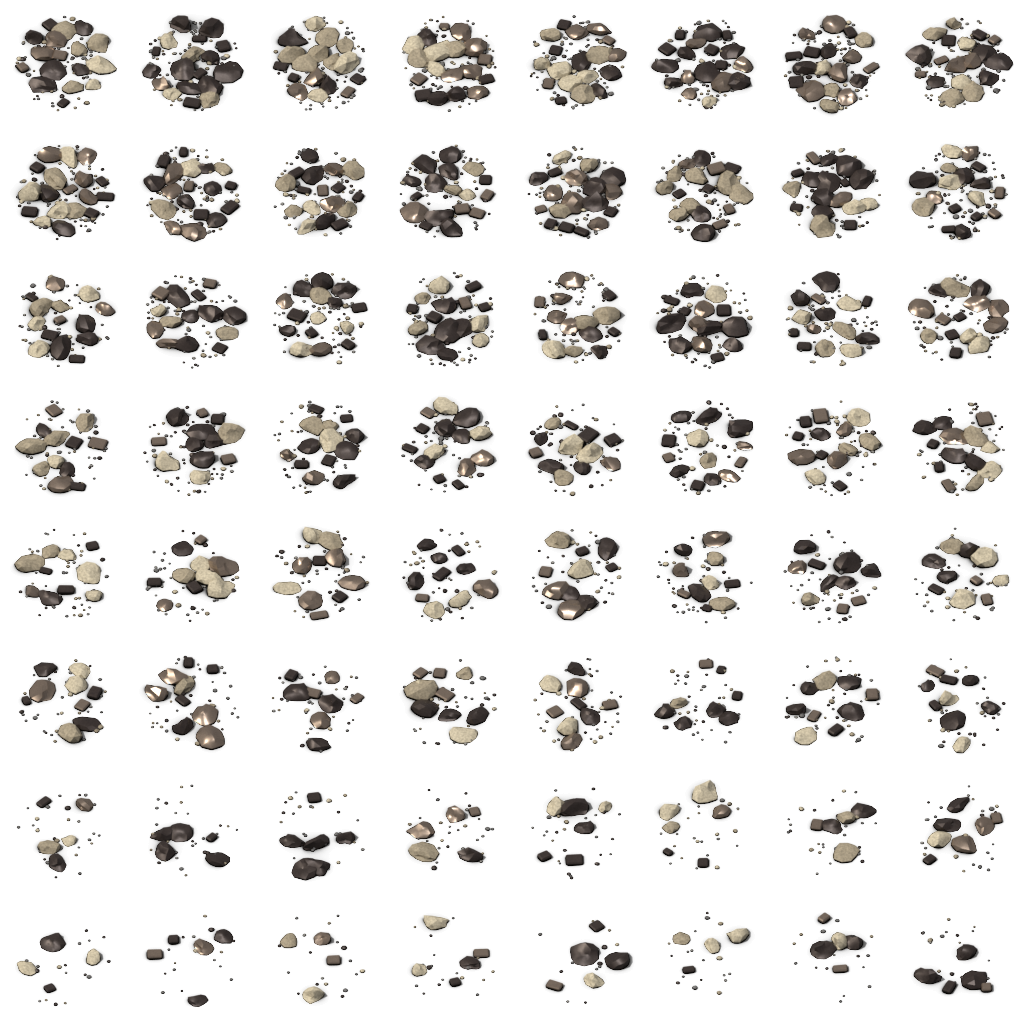
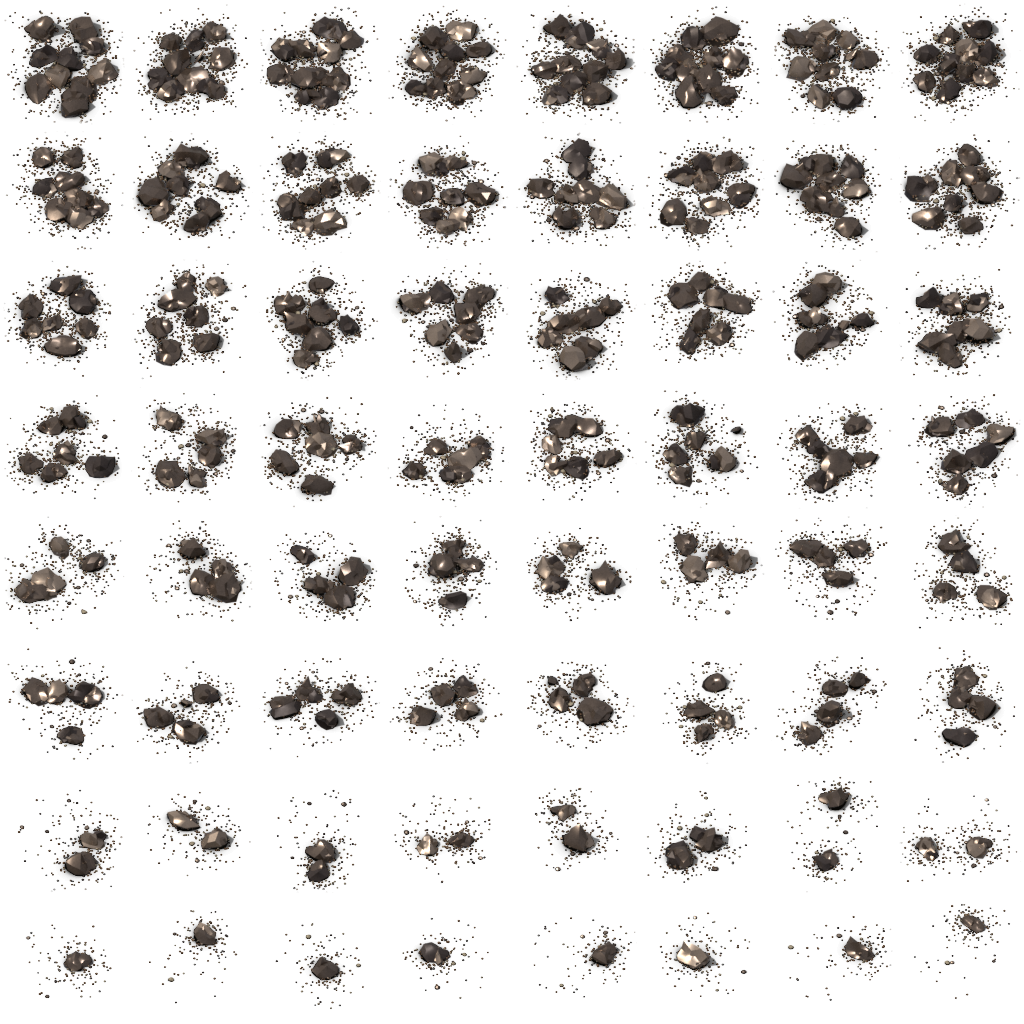
Ilménite : forme refaite (direction J7), retour du DC du 30/10
DC (30/10, 9 h) : « je n'aime pas du tout la forme de ces minerais : [...] Minerai
d'ilménite [...] Il faut les refaire. » Ancienne forme I2S : galets plats et lisses,
plaquettes carrées à plat, damier crème / brun, pièces semées une à une, tapis de
grains en couronne. J7 : morceaux bosselés en tas serrés (tête et bosses soudées),
brun-noir à reflets bronze (teinte I2 sombre gardée), une tablette d'accent dans un
tas sur deux, poussière brun-rouille sous les morceaux. Même dossier, même nom :
aucune migration ; couche d'effet de I2S inchangée.

Kit : gisement.py gagne des clés facultatives (amas, fins_autour, fin_taille,
ROCHE_BOSSE) sans tirage en plus pour les directions qui ne les ont pas ;
feuille.py masque l'effet là où le minerai fondu en bordure est presque transparent.
64 échantillons ; check_gisement 7 OK, mutants 10/10. Sans verdict du DC.

diff --git a/tools/render/pieces/ressources/directions.py b/tools/render/pieces/ressources/directions.py
@@ -581,3 +581,132 @@ GRAINE = {"A": 5101, "B": 5202, "C": 5303, "A2": 5101, "A3": 5101, "A4": 5101, "
 COLONNES = 8
 STADES = 8
 PAS = 3          # écart entre deux cellules, en tuiles (aucune ombre d'une cellule ne déborde sur sa voisine)
+
+# ------------------------------------------------------------------------------------------------
+# ILMÉNITE, REFONTE DE LA FORME (lot MINERAI-ILMENITE, 30/10). Retour du DC (30/10, 9 h) : « je n'aime pas du tout la
+# forme de ces minerais : Blende, Cassitérite, Minerai d'ilménite, Minerai de monazite. Il faut les refaire. »
+# Pourquoi I2S déplaît (comparée aux hr-*.png vanilla, zoom 2) : (1) des GALETS plats et lisses (aplat 0,6, lissé 28°),
+# sans relief ni ombre, et des plaquettes carrées posées à plat : on lit des dalles ou du gravier, pas un minerai ;
+# (2) un DAMIER de deux couleurs (croûte crème contre noyau brun) qui se lit « pierre + charbon mêlés » ; (3) des pièces
+# semées UNE PAR UNE à écart fixe dans un disque (pois réguliers), quand la vanilla les groupe en TAS qui se touchent ;
+# (4) un tapis de grains épars (points) au lieu du halo de poussière colorée qui tache le sol sous chaque minerai vanilla ;
+# (5) au zoom 1, sur le régolithe gris clair des cratères, la croûte crème disparaît et il reste des taches sombres.
+# Langage vanilla visé : morceaux anguleux à facettes vives et à relief (ombre portée), en tas de 2 à 4, une couleur
+# dominante (ilménite brun-noir à reflets bronze, la teinte « I2 sombre » choisie par le DC le 25/10), halo de poussière
+# brun-rouille. Trois formes (essais à bas échantillonnage) :
+#   J1 : AMAS de blocs anguleux (le langage du fer et du cuivre vanilla, en brun-noir bronze) ;
+#   J2 : ROSES d'ilménite (rosettes de tablettes hexagonales minces en éventail, forme réelle du minéral) ;
+#   J3 : amas de J1 d'où sortent 1 ou 2 TABLETTES (blocs + cristaux tabulaires).
+# ------------------------------------------------------------------------------------------------
+MAT.update({
+    # ilménite de la refonte : brun-noir à éclat submétallique, entre ilmenite_brun et ilmenite_bronze (une seule
+    # couleur dominante, les reflets font le reste)
+    "ilmenite_j": dict(color=(0.13, 0.095, 0.075), rough=0.30, met=0.60, grain=0.22, gscale=45.0, dirt=0.45),
+    # poussière d'altération brun-rouille (le halo coloré sous le gisement, comme la poussière rouge du fer vanilla)
+    "poussiere_ilm": dict(color=(0.22, 0.13, 0.075), rough=0.95, met=0.0, grain=0.3, gscale=30.0, dirt=0.2),
+})
+_J_FINS = (300, 260, 225, 190, 155, 120, 85, 50)
+_J_FIN_MATS = ("poussiere_ilm", "poussiere_ilm", "leucoxene_sombre", "ilmenite_brun", "poussiere_ilm", "regolithe")
+DIRECTIONS["J1"] = dict(
+    nom="amas de blocs anguleux d'ilménite brun-noir à reflets bronze",
+    touffes=(0, 0, 0, 0, 0, 0, 0, 0), lames=(0, 0),
+    lame_long=(0.0, 0.0), lame_larg=(0.0, 0.0), lame_ep=(0.0, 0.0), lame_incl=(0, 0), lame_mats=("ilmenite_j",),
+    roches=(15, 13, 11, 9, 7, 6, 4, 2), roche_taille=(0.13, 0.20),
+    roche_mats=("ilmenite_j", "ilmenite_j", "ilmenite_j", "ilmenite_brun", "ilmenite_bronze", "ilmenite_j"),
+    amas=dict(taille=(2, 4), rayon=0.13, ecart=0.34, incl=(0, 28), tete=1.25),
+    blocs=(0, 0, 0, 0, 0, 0, 0, 0), bloc_taille=(0.1, 0.1), bloc_haut=(0.1, 0.1), bloc_mats=("ilmenite_j",),
+    grains=(18, 16, 14, 12, 10, 8, 6, 4), grain_mats=("ilmenite_j", "ilmenite_bronze", "leucoxene_sombre"),
+    fins=_J_FINS, fin_mats=_J_FIN_MATS,
+    rayon=0.60,
+    effet="eclats",
+)
+DIRECTIONS["J2"] = dict(
+    nom="roses d'ilménite : rosettes de tablettes brun-noir à reflets bronze",
+    touffes=(6, 5, 5, 4, 3, 3, 2, 1), lames=(5, 8),
+    lame_long=(0.11, 0.17), lame_larg=(0.17, 0.25), lame_ep=(0.025, 0.040), lame_incl=(30, 65),
+    lame_mats=("ilmenite_j", "ilmenite_j", "ilmenite_bronze", "ilmenite_brun"),
+    roches=(3, 3, 3, 2, 2, 1, 1, 1), roche_taille=(0.10, 0.15), roche_mats=("ilmenite_brun", "ilmenite_j"),
+    blocs=(0, 0, 0, 0, 0, 0, 0, 0), bloc_taille=(0.1, 0.1), bloc_haut=(0.1, 0.1), bloc_mats=("ilmenite_j",),
+    grains=(18, 16, 14, 12, 10, 8, 6, 4), grain_mats=("ilmenite_j", "ilmenite_bronze", "leucoxene_sombre"),
+    fins=_J_FINS, fin_mats=_J_FIN_MATS,
+    rayon=0.60,
+    effet="eclats",
+)
+DIRECTIONS["J3"] = dict(DIRECTIONS["J1"], nom="amas de blocs d'ilménite hérissés de tablettes",
+                        roches=(12, 10, 9, 7, 6, 5, 3, 2),
+                        amas=dict(taille=(2, 3), rayon=0.12, ecart=0.36, incl=(0, 25), tete=1.2, lames=(1, 2)),
+                        lame_long=(0.12, 0.18), lame_larg=(0.15, 0.22), lame_ep=(0.028, 0.042), lame_incl=(15, 50),
+                        lame_mats=("ilmenite_j", "ilmenite_bronze", "ilmenite_j"))
+for _k in ("J1", "J2", "J3"):
+    CALIB[_k] = {"SKY_GLOSSY_FACTOR": 3.0}
+    ROCHE_COUPES[_k], ROCHE_LISSE[_k], ROCHE_APLAT[_k], ROCHE_CASSURE[_k] = 8, 20, 0.80, (0.30, 0.62)
+    EFFET[_k] = dict(EFFET["I2S"])
+    ECHELLE[_k] = 1.0
+    GRAINE[_k] = 6818
+GRAINE["J2"] = 6919
+ROCHE_APLAT["J2"] = 0.65
+ICONE["J1"] = dict(lames=(0, 0), roches=(4, 5), roche_taille=(0.20, 0.27), roche_coupes=8, roche_cassure=(0.30, 0.62),
+                   roche_aplat=0.85, roche_mats=("ilmenite_j", "ilmenite_j", "ilmenite_bronze", "ilmenite_brun"), blocs=0)
+ICONE["J2"] = dict(lames=(6, 8), echelle=1.7, roches=(2, 2), roche_taille=(0.14, 0.18), roche_coupes=8,
+                   roche_cassure=(0.30, 0.62), roche_aplat=0.7, roche_mats=("ilmenite_brun",),
+                   lame_mats=("ilmenite_j", "ilmenite_bronze", "ilmenite_j"), blocs=0)
+ICONE["J3"] = dict(lames=(2, 3), echelle=1.5, roches=(3, 4), roche_taille=(0.20, 0.26), roche_coupes=8,
+                   roche_cassure=(0.30, 0.62), roche_aplat=0.85, roche_mats=("ilmenite_j", "ilmenite_j", "ilmenite_bronze"),
+                   lame_mats=("ilmenite_j", "ilmenite_bronze"), blocs=0)
+
+# Ronde 2 (essais à 16 échantillons, planche fo-logs/2026-10-30_RETOUR-MATIN/MINERAIS/ilmenite/essais, zoom 3 contre le fer
+# vanilla) : J1 et J3 sortent en ÉCLATS PLATS (8 coupes profondes), trop petits (couverture 0,16 contre 0,32), et le tapis de
+# fins se lit en couronne de GRAVIER rond (grains de 2 à 3 px ombrés, semés dans tout le disque) au lieu de la poussière
+# de 1 px serrée SOUS les morceaux du fer vanilla ; J2 (rosettes) se lit en papier froissé : écartée. Ronde 2 : morceaux
+# bosselés plus gros (bosses ±12 %, 5 coupes moins profondes), poussière fine concentrée autour des morceaux
+# (gisement.cellule : fins_autour, fin_taille), reflets bronze plus francs.
+MAT["ilmenite_k"] = dict(color=(0.15, 0.11, 0.085), rough=0.26, met=0.62, grain=0.22, gscale=45.0, dirt=0.45)
+ROCHE_BOSSE = {}
+_K_ROCHE_MATS = ("ilmenite_k", "ilmenite_k", "ilmenite_k", "ilmenite_brun", "ilmenite_bronze", "ilmenite_k")
+DIRECTIONS["J4"] = dict(DIRECTIONS["J1"], nom="amas de morceaux bosselés d'ilménite brun-noir à reflets bronze",
+                        roches=(17, 15, 12, 10, 8, 7, 4, 2), roche_taille=(0.17, 0.25), roche_mats=_K_ROCHE_MATS,
+                        amas=dict(taille=(2, 4), rayon=0.16, ecart=0.38, incl=(0, 25), tete=1.2),
+                        grains=(10, 9, 8, 7, 6, 5, 4, 3), grain_mats=("ilmenite_k", "ilmenite_bronze", "leucoxene_sombre"),
+                        fins=(700, 600, 520, 440, 360, 280, 200, 120), fin_taille=(0.007, 0.012), fins_autour=(0.75, 1.3),
+                        fin_mats=("poussiere_ilm", "poussiere_ilm", "leucoxene_sombre", "ilmenite_brun", "poussiere_ilm",
+                                  "regolithe"))
+DIRECTIONS["J5"] = dict(DIRECTIONS["J4"], nom="amas de morceaux d'ilménite hérissés de tablettes",
+                        roches=(15, 13, 11, 9, 7, 6, 4, 2),
+                        amas=dict(taille=(2, 3), rayon=0.16, ecart=0.38, incl=(0, 25), tete=1.2, lames=(1, 2)),
+                        lame_long=(0.13, 0.19), lame_larg=(0.16, 0.22), lame_ep=(0.030, 0.045), lame_incl=(20, 50),
+                        lame_mats=("ilmenite_k", "ilmenite_bronze", "ilmenite_k"))
+DIRECTIONS["J6"] = dict(DIRECTIONS["J5"], nom="tas de tablettes épaisses d'ilménite sur morceaux",
+                        roches=(11, 10, 8, 7, 6, 4, 3, 2),
+                        amas=dict(taille=(1, 2), rayon=0.14, ecart=0.38, incl=(0, 20), tete=1.1, lames=(2, 3)),
+                        lame_long=(0.14, 0.20), lame_larg=(0.17, 0.24), lame_ep=(0.050, 0.070), lame_incl=(35, 70))
+for _k in ("J4", "J5", "J6"):
+    CALIB[_k] = {"SKY_GLOSSY_FACTOR": 5.0}
+    ROCHE_COUPES[_k], ROCHE_LISSE[_k], ROCHE_APLAT[_k], ROCHE_CASSURE[_k] = 5, 34, 0.90, (0.50, 0.82)
+    ROCHE_BOSSE[_k] = (0.86, 1.12)
+    EFFET[_k] = dict(EFFET["I2S"])
+    ECHELLE[_k] = 1.0
+    GRAINE[_k] = 6818
+ICONE["J4"] = dict(ICONE["J1"], roche_coupes=5, roche_cassure=(0.50, 0.82), roche_aplat=0.9,
+                   roche_mats=("ilmenite_k", "ilmenite_k", "ilmenite_bronze", "ilmenite_brun"))
+ICONE["J5"] = dict(ICONE["J3"], roche_coupes=5, roche_cassure=(0.50, 0.82), roche_aplat=0.9,
+                   roche_mats=("ilmenite_k", "ilmenite_k", "ilmenite_bronze"), lame_mats=("ilmenite_k", "ilmenite_bronze"))
+ICONE["J6"] = dict(ICONE["J5"], lames=(3, 4), roches=(2, 3))
+
+# Ronde 3 (J4 à J6 au zoom 3 contre le fer : relief et reflets bronze justes, ni le bleu du fer ni le noir mat du charbon)
+# : morceaux encore trop RONDS (galettes lisses ; les morceaux vanilla ont plusieurs bosses), poussière clairsemée,
+# couverture à 75 % de la vanilla. J7 = J4 à morceaux COMPOSÉS (une tête et 1 ou 2 bosses soudées : amas serré), une
+# tablette d'accent dans un tas sur deux (l'habitus tabulaire de l'ilménite, de J5), poussière plus dense et plus serrée,
+# comptes recalés au rapport vanilla / mesuré de J4.
+DIRECTIONS["J7"] = dict(DIRECTIONS["J4"], nom="morceaux bosselés d'ilménite brun-noir à reflets bronze, tablettes d'accent",
+                        roches=(24, 20, 17, 14, 11, 9, 6, 3),
+                        amas=dict(taille=(2, 3), rayon=0.11, ecart=0.28, incl=(0, 25), tete=1.15, lames=(0, 1)),
+                        lame_long=(0.12, 0.17), lame_larg=(0.14, 0.20), lame_ep=(0.035, 0.050), lame_incl=(25, 55),
+                        lame_mats=("ilmenite_k", "ilmenite_bronze", "ilmenite_k"),
+                        fins=(1000, 860, 740, 620, 500, 400, 280, 170), fin_taille=(0.010, 0.016), fins_autour=(0.85, 1.0),
+                        rayon=0.62)
+CALIB["J7"] = dict(CALIB["J4"])
+ROCHE_COUPES["J7"], ROCHE_LISSE["J7"], ROCHE_APLAT["J7"], ROCHE_CASSURE["J7"] = 6, 30, 0.90, (0.45, 0.80)
+ROCHE_BOSSE["J7"] = (0.84, 1.14)
+EFFET["J7"] = dict(EFFET["I2S"])
+ECHELLE["J7"], GRAINE["J7"] = 1.0, 6818
+ICONE["J7"] = dict(ICONE["J4"], lames=(1, 2), echelle=1.4, lame_mats=("ilmenite_k", "ilmenite_bronze"))

diff --git a/tools/render/pieces/ressources/gisement.py b/tools/render/pieces/ressources/gisement.py
@@ -60,8 +60,9 @@ def _transforme(verts, rx, rz, tx, ty, tz):
     return out
 
 
-def roche(rng, taille, aplat=0.55, n_coupes=3, cassure=(0.55, 0.85)):
-    """Roche facettée : icosphère (2 subdivisions) bosselée, aplatie, fond à plat. Renvoie (sommets, faces)."""
+def roche(rng, taille, aplat=0.55, n_coupes=3, cassure=(0.55, 0.85), bosse=(0.92, 1.08)):
+    """Roche facettée : icosphère (2 subdivisions) bosselée, aplatie, fond à plat. Renvoie (sommets, faces).
+    bosse : amplitude du bruit par sommet (défaut inchangé ; même nombre de tirages quelle que soit la valeur)."""
     bm = bmesh.new()
     bmesh.ops.create_icosphere(bm, subdivisions=2, radius=1.0)
     sx = taille * rng.uniform(0.8, 1.2)
@@ -72,7 +73,7 @@ def roche(rng, taille, aplat=0.55, n_coupes=3, cassure=(0.55, 0.85)):
     coupes = [(rng.uniform(-1, 1), rng.uniform(-1, 1), rng.uniform(0, 1), rng.uniform(*cassure))
               for _ in range(n_coupes)]
     for v in bm.verts:
-        k = rng.uniform(0.92, 1.08)
+        k = rng.uniform(*bosse)
         for ax, ay, az, d in coupes:
             n = math.sqrt(ax * ax + ay * ay + az * az) or 1.0
             p = (v.co.x * ax + v.co.y * ay + v.co.z * az) / n
@@ -162,10 +163,10 @@ def cellule(S, C, mats, lave, d, cle, r, c, stade, rng, icone=False):
     objs = []
     occupe = []
 
-    def pose(verts, faces, mat, gx, gy, nom, lisse=None, biseau=None):
+    def pose(verts, faces, mat, gx, gy, nom, lisse=None, biseau=None, rx=0.0, tz=0.0):
         bx, by, _ = C.tile_to_blender(cx + gx, cy + gy)
         rz = rng.uniform(0, 2 * math.pi)
-        vv = _transforme(verts, 0.0, rz, bx, by, 0.0)
+        vv = _transforme(verts, rx, rz, bx, by, tz)
         o = _objet(nom, vv, faces, mat, S, lisse)
         if biseau:
             S.bevel(o, biseau, 1)
@@ -175,6 +176,49 @@ def cellule(S, C, mats, lave, d, cle, r, c, stade, rng, icone=False):
     tag = "%s_%d_%d" % (cle, r, c)
     # roches de pied / matrice
     n_roche = _compte(d["roches"], stade, e, rng) + (2 if icone else 0)
+    am = d.get("amas")
+    pieces = []          # (gx, gy, taille) des roches d'amas : la poussière « fins_autour » s'y concentre
+    if am:
+        # AMAS (retour du DC du 30/10 sur l'ilménite : « je n'aime pas du tout la forme ») : les roches vanilla se
+        # TOUCHENT par petits tas (2 à 4 morceaux, un gros et des plus petits, inclinés), au lieu d'être semées une à
+        # une à écart fixe (pois réguliers). Clé facultative : sans elle, rien ne change (aucun tirage en plus).
+        tmin, tmax = am["taille"]
+        bosse = D.ROCHE_BOSSE.get(cle, (0.92, 1.08)) if hasattr(D, "ROCHE_BOSSE") else (0.92, 1.08)
+        k = max(1, int(round(n_roche / (0.5 * (tmin + tmax))))) if n_roche else 0
+        centres = _places(rng, k, rayon, am["ecart"], occupe)
+        i = 0
+        for ci, (ax, ay) in enumerate(centres):
+            occupe.append((ax, ay))
+            m = rng.randint(tmin, tmax)
+            for j in range(m):
+                if i >= n_roche:
+                    break
+                if j == 0:
+                    gx, gy, kt = ax, ay, am.get("tete", 1.2)
+                else:
+                    a = rng.uniform(0, 2 * math.pi)
+                    rr = am["rayon"] * rng.uniform(0.55, 1.0)
+                    gx, gy, kt = ax + rr * math.cos(a), ay + rr * math.sin(a) * 0.85, rng.uniform(0.6, 0.95)
+                t = rng.uniform(*d["roche_taille"]) * kt * (1.25 if icone else 1.0)
+                v, f = roche(rng, t, aplat=D.ROCHE_APLAT.get(cle, 0.55), n_coupes=D.ROCHE_COUPES.get(cle, 3),
+                             cassure=D.ROCHE_CASSURE.get(cle, (0.55, 0.85)), bosse=bosse)
+                pieces.append((gx, gy, t))
+                incl = math.radians(rng.uniform(*am.get("incl", (0.0, 0.0))))
+                pose(v, f, mats[rng.choice(d["roche_mats"])], gx, gy, "%s_roche%d" % (tag, i),
+                     lisse=D.ROCHE_LISSE.get(cle, 38), rx=incl, tz=-0.25 * t * math.sin(incl))
+                i += 1
+            # tablettes plantées dans le tas (cristaux tabulaires d'ilménite qui sortent de la masse)
+            for j in range(rng.randint(*am.get("lames", (0, 0)))):
+                L = rng.uniform(*d["lame_long"]) * (1.2 if icone else 1.0)
+                v, f = lame(rng, L, rng.uniform(*d["lame_larg"]), rng.uniform(*d["lame_ep"]))
+                incl = math.radians(rng.uniform(*d["lame_incl"]))
+                az = rng.uniform(0, 2 * math.pi)
+                bx, by, _ = C.tile_to_blender(cx + ax + rng.uniform(-0.05, 0.05), cy + ay + rng.uniform(-0.05, 0.05))
+                vv = _transforme(v, incl, az, bx, by, -0.02)
+                o = _objet("%s_tab%d_%d" % (tag, ci, j), vv, f, mats[rng.choice(d["lame_mats"])], S)
+                S.bevel(o, 0.006, 1)
+                objs.append(o)
+        n_roche = 0
     for i, (gx, gy) in enumerate(_places(rng, n_roche, rayon, 0.22, occupe)):
         occupe.append((gx, gy))
         t = rng.uniform(*d["roche_taille"]) * (1.25 if icone else 1.0)
@@ -232,6 +276,22 @@ def cellule(S, C, mats, lave, d, cle, r, c, stade, rng, icone=False):
         if fins:
             d = dict(d, fin_mats=d.get("fin_mats", D.FIN_MATS))
             n_f = _compte(fins, stade, 1.0, rng)
+            fa = d.get("fins_autour")
+            if fa and pieces:
+                # POUSSIÈRE serrée sous les morceaux (ilménite refaite, 30/10) : une part `fa[0]` des fins tombe autour
+                # d'une roche (écart gaussien fa[1] × sa taille), le reste dans le disque ; grains de fin_taille.
+                ft = d.get("fin_taille", (0.016, 0.026))
+                for _ in range(n_f):
+                    if rng.random() < fa[0]:
+                        px, py, pt = pieces[rng.randrange(len(pieces))]
+                        x, y = px + rng.gauss(0, fa[1] * pt), py + rng.gauss(0, fa[1] * pt * 0.85)
+                    else:
+                        a = rng.uniform(0, 2 * math.pi)
+                        r = rayon * 1.15 * math.sqrt(rng.random())
+                        x, y = r * math.cos(a), r * math.sin(a)
+                    v, f = grain(rng, rng.uniform(*ft))
+                    ajoute(rng.choice(d["fin_mats"]), v, f, x, y)
+                n_f = 0
             for _ in range(n_f):
                 a = rng.uniform(0, 2 * math.pi)
                 r = rayon * 1.15 * math.sqrt(rng.random())

diff --git a/tools/render/pieces/ressources/feuille.py b/tools/render/pieces/ressources/feuille.py
@@ -161,7 +161,12 @@ def post(cle, travail, sortie, nom, lignes=D.STADES + 1):
             hr[r * FRAME:(r + 1) * FRAME, c * FRAME:(c + 1) * FRAME] = f
             cv.append(float((f[..., 3] > 0.5).mean()))
             if hre is not None:
-                hre[r * FRAME:(r + 1) * FRAME, c * FRAME:(c + 1) * FRAME] = bordure(recadre(effet_src, cx, cy))
+                fe = bordure(recadre(effet_src, cx, cy))
+                # (30/10, ilménite J7) : rien d'effet là où le minerai, après le fondu de bordure, est presque transparent
+                # (alpha < 0,05) : des grains de poussière en lisière de cadre y laissaient 27 pixels d'effet,
+                # refusés par check_gisement (« rien hors du minerai »)
+                fe[..., 3] = fe[..., 3] * (f[..., 3] >= 0.05)
+                hre[r * FRAME:(r + 1) * FRAME, c * FRAME:(c + 1) * FRAME] = fe
         couv.append(round(float(np.mean(cv)), 4))
     os.makedirs(sortie, exist_ok=True)
     sums = {}
